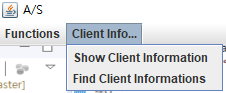
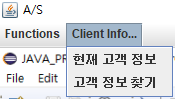
Add: Manual

diff --git a/src/GUI.java b/src/GUI.java
@@ -279,8 +279,8 @@ public class GUI extends JFrame {
 		range.add(rangeSet_3);
 		
 		JMenu client = new JMenu("Client Info...");
-		JMenuItem clientB = new JMenuItem("Show Client Information");
-		JMenuItem database = new JMenuItem("Find Client Informations");
+		JMenuItem clientB = new JMenuItem("현재 고객 정보");
+		JMenuItem database = new JMenuItem("고객 정보 찾기");
 		
 		clientB.addActionListener(new ActionListener() {public void actionPerformed(ActionEvent event) {
 			JDialog cliInfoDialog = new JDialog(GUI.this, "Client Info", true);
@@ -411,10 +411,38 @@ public class GUI extends JFrame {
 		drawPanel.setLayout(new BorderLayout());
 		drawPanel.add(drawLocation, "Center");
 		
-		JPanel howPanel = new JPanel();
+		JPanel manualPanel1 = new JPanel();
+		JPanel manualPanel2 = new JPanel();
 		
+		manualPanel1.setLayout(new BorderLayout());
+		manualPanel2.setLayout(new BorderLayout());
+		
+		JLabel manual1 = new JLabel(new ImageIcon("assets/manual1.png"));
+		JLabel manual2 = new JLabel(new ImageIcon("assets/manual2.png"));
+		
+		manualPanel1.add(manual1, BorderLayout.CENTER);
+		manualPanel2.add(manual2, BorderLayout.CENTER);
+		
+		manualPanel1.addMouseListener(new MouseAdapter() {
+			@Override
+			public void mousePressed(MouseEvent e) {
+				if(e.getButton() == MouseEvent.BUTTON1)
+					cardLayout.next(getContentPane());
+			}
+		});
+		manualPanel2.addMouseListener(new MouseAdapter() {
+			@Override
+			public void mousePressed(MouseEvent e) {
+				if(e.getButton() == MouseEvent.BUTTON1)
+					cardLayout.next(getContentPane());
+				else
+					cardLayout.previous(getContentPane());
+			}
+		});
+		
+		getContentPane().add(manualPanel1);
+		getContentPane().add(manualPanel2);
 		getContentPane().add(drawPanel);
-		getContentPane().add(howPanel);
 		
 		cardLayout.first(getContentPane());
 		
